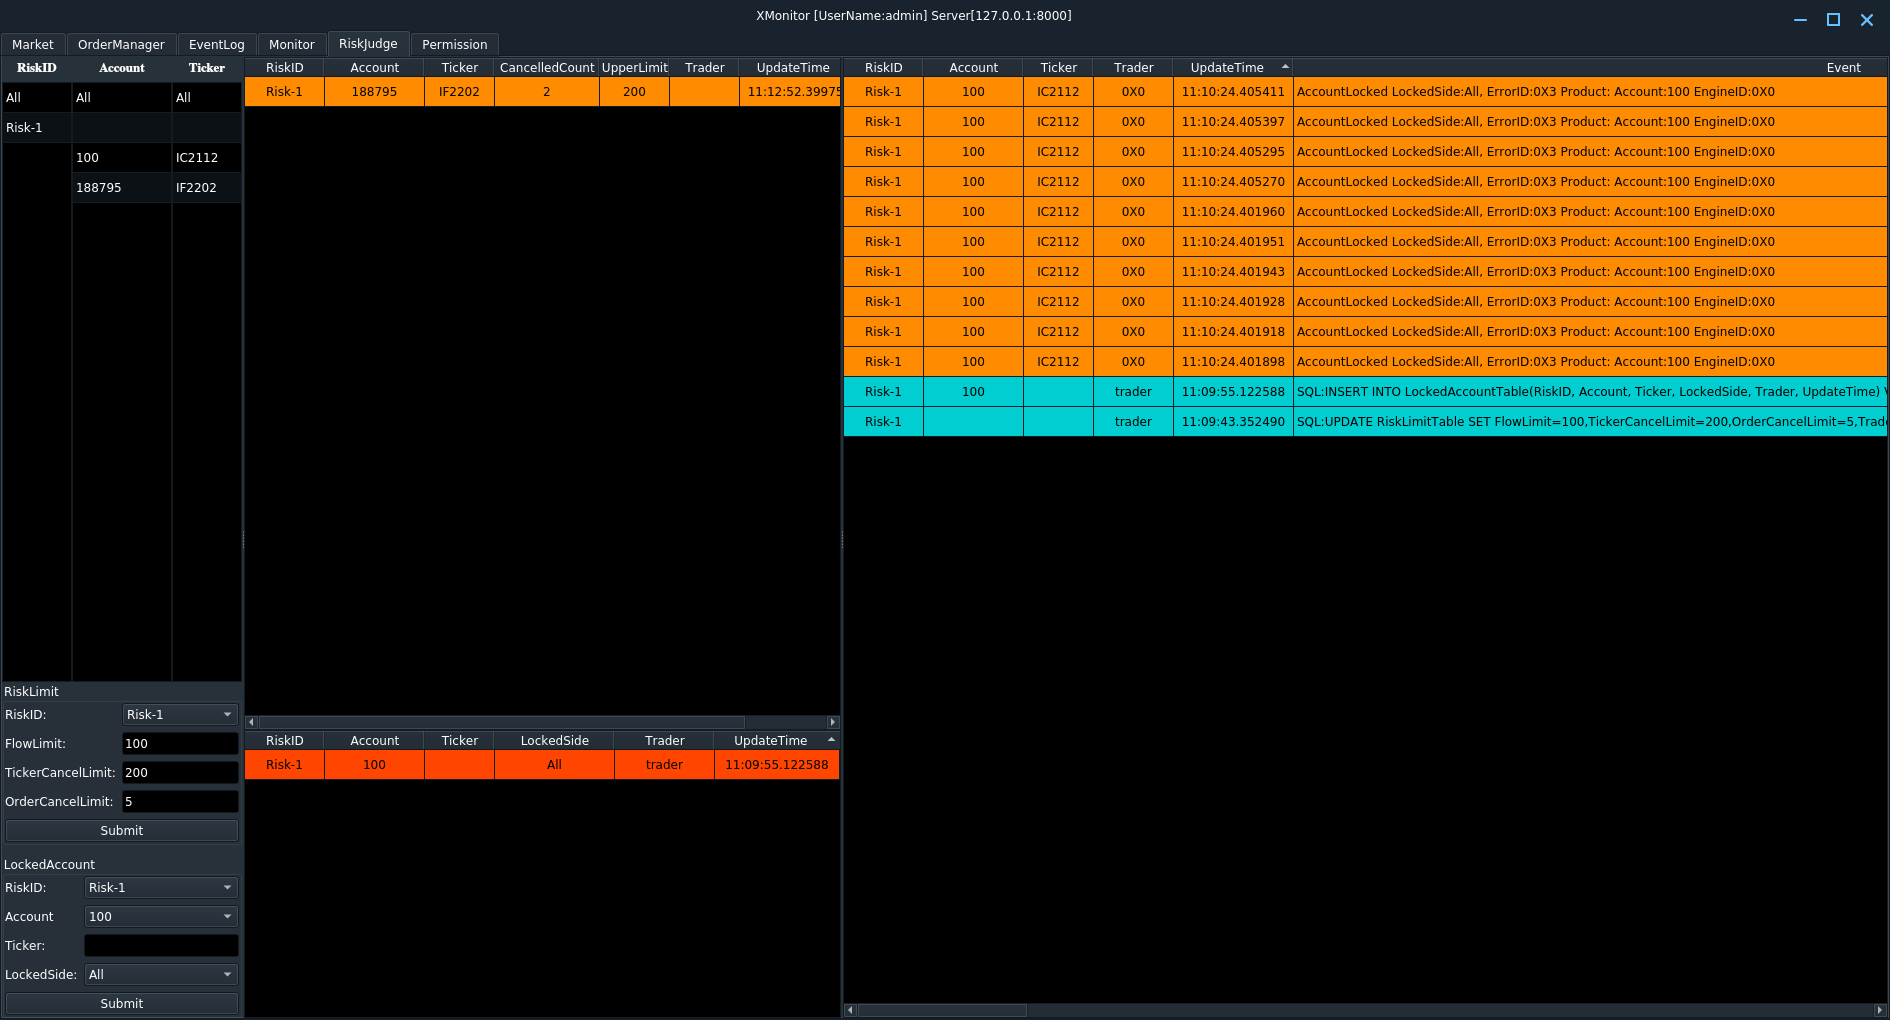
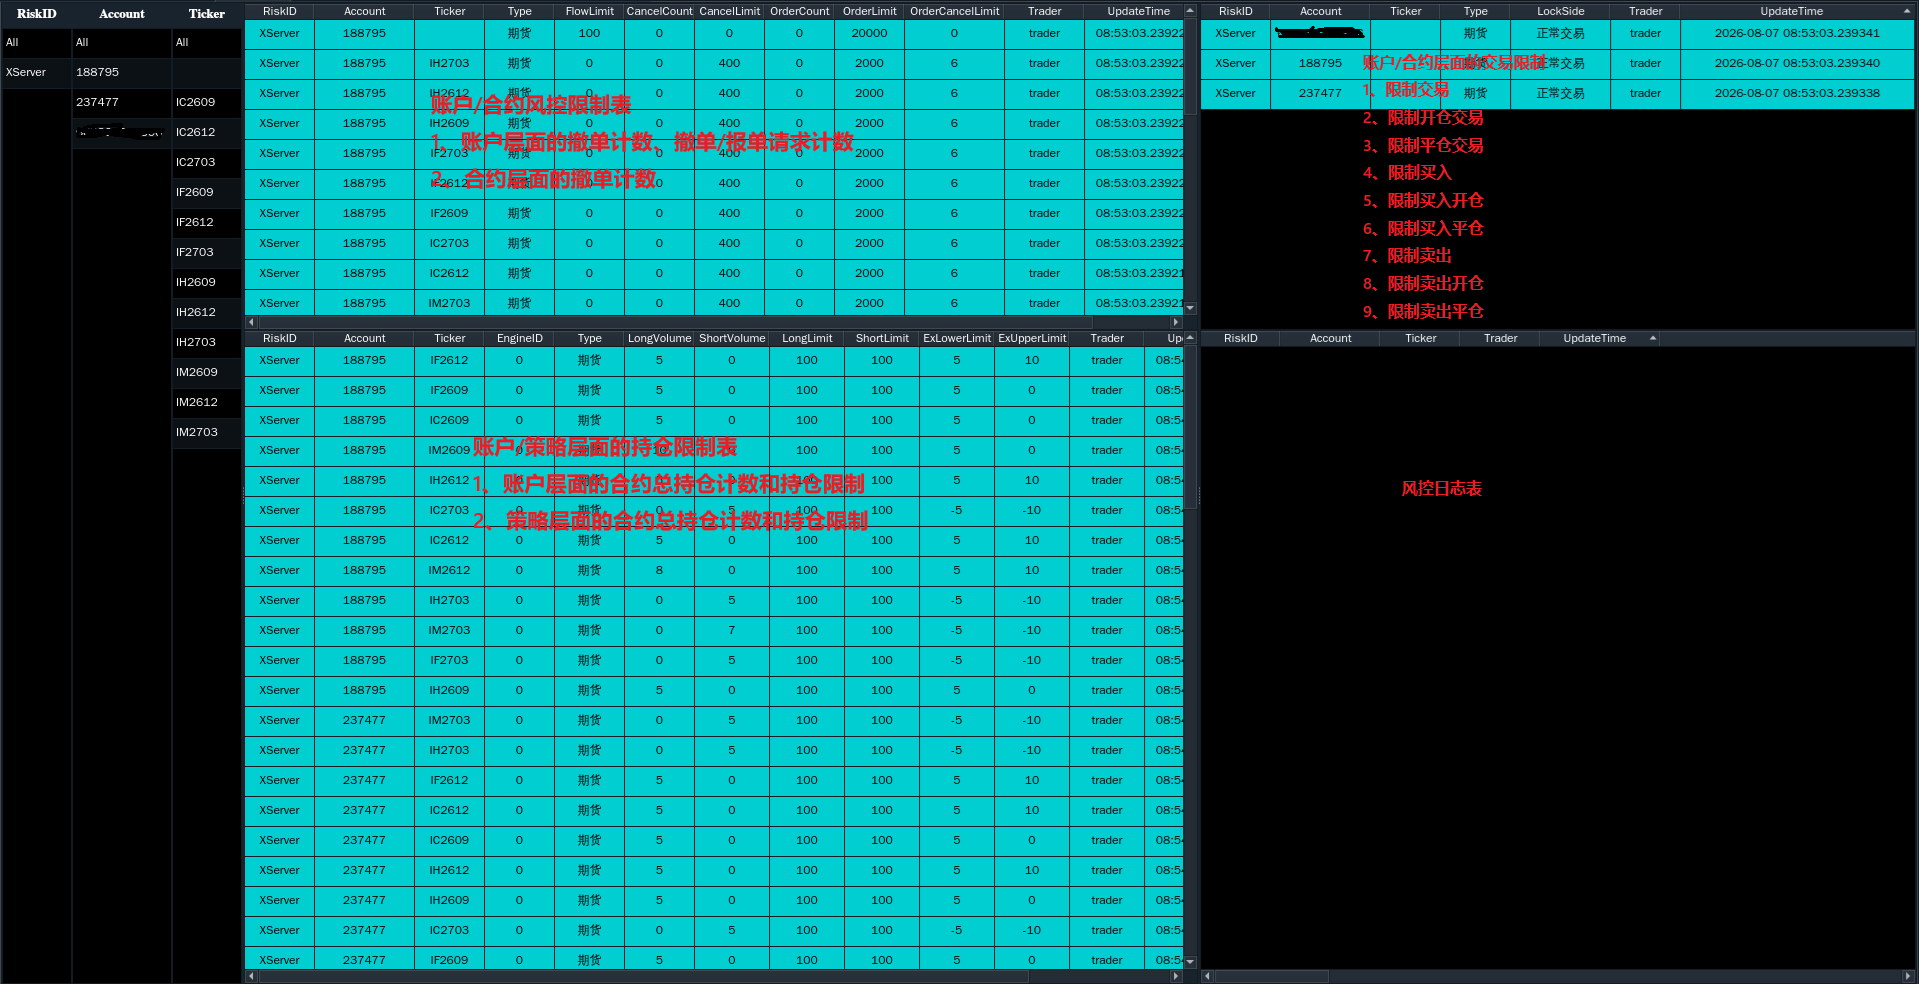
Update Risk Control System

diff --git a/README.md b/README.md
@@ -300,7 +300,7 @@ std: 449.36
 - Monitor插件：展示Colo交易服务器实时性能指标，交易进程实时状态，提供交易进程管理功能。如下：
 <img src="images/Monitor.png" width="100%">
 
-- RiskJudge插件：提供风控系统流速限制、Ticker撤单限制、订单撤单限制相关参数设置；提供账户锁定功能；展示不同账户不同Ticker的累计撤单次数；展示风控系统事件日志。如下：
+- RiskJudge插件：风控系统提供程序化交易报备合规风控要求，包括流速限制，账户/合约锁定和恢复交易，交易指令检查(合约有效性、价格、数量)，防自成交，Ticker撤单限制、订单撤单限制、订单申报次数限制，策略层面合约持仓限制，账户层面合约持仓限制和净持仓限制；双击可修改风控限制参数。如下：
 <img src="images/RiskJudge.png" width="100%">
 
 - OrderManager插件：提供报单、撤单功能；展示账户仓位信息；展示账户挂单信息；展示账户历史订单记录；展示账户资金信息。如下：
